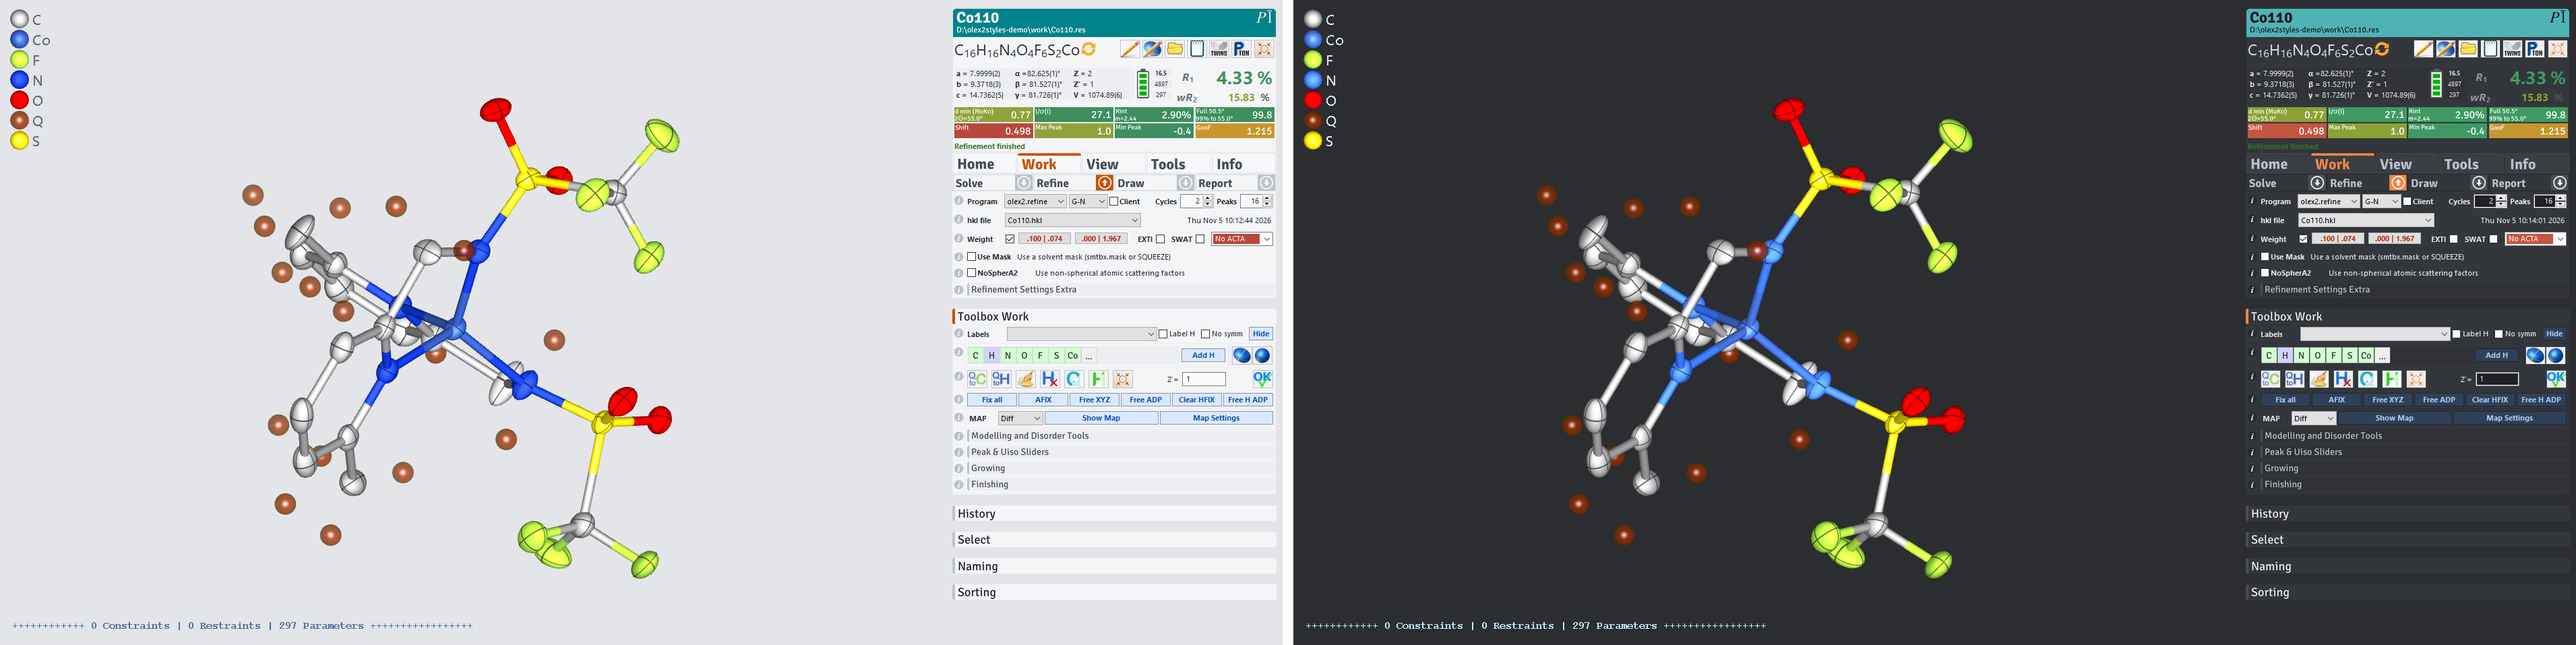
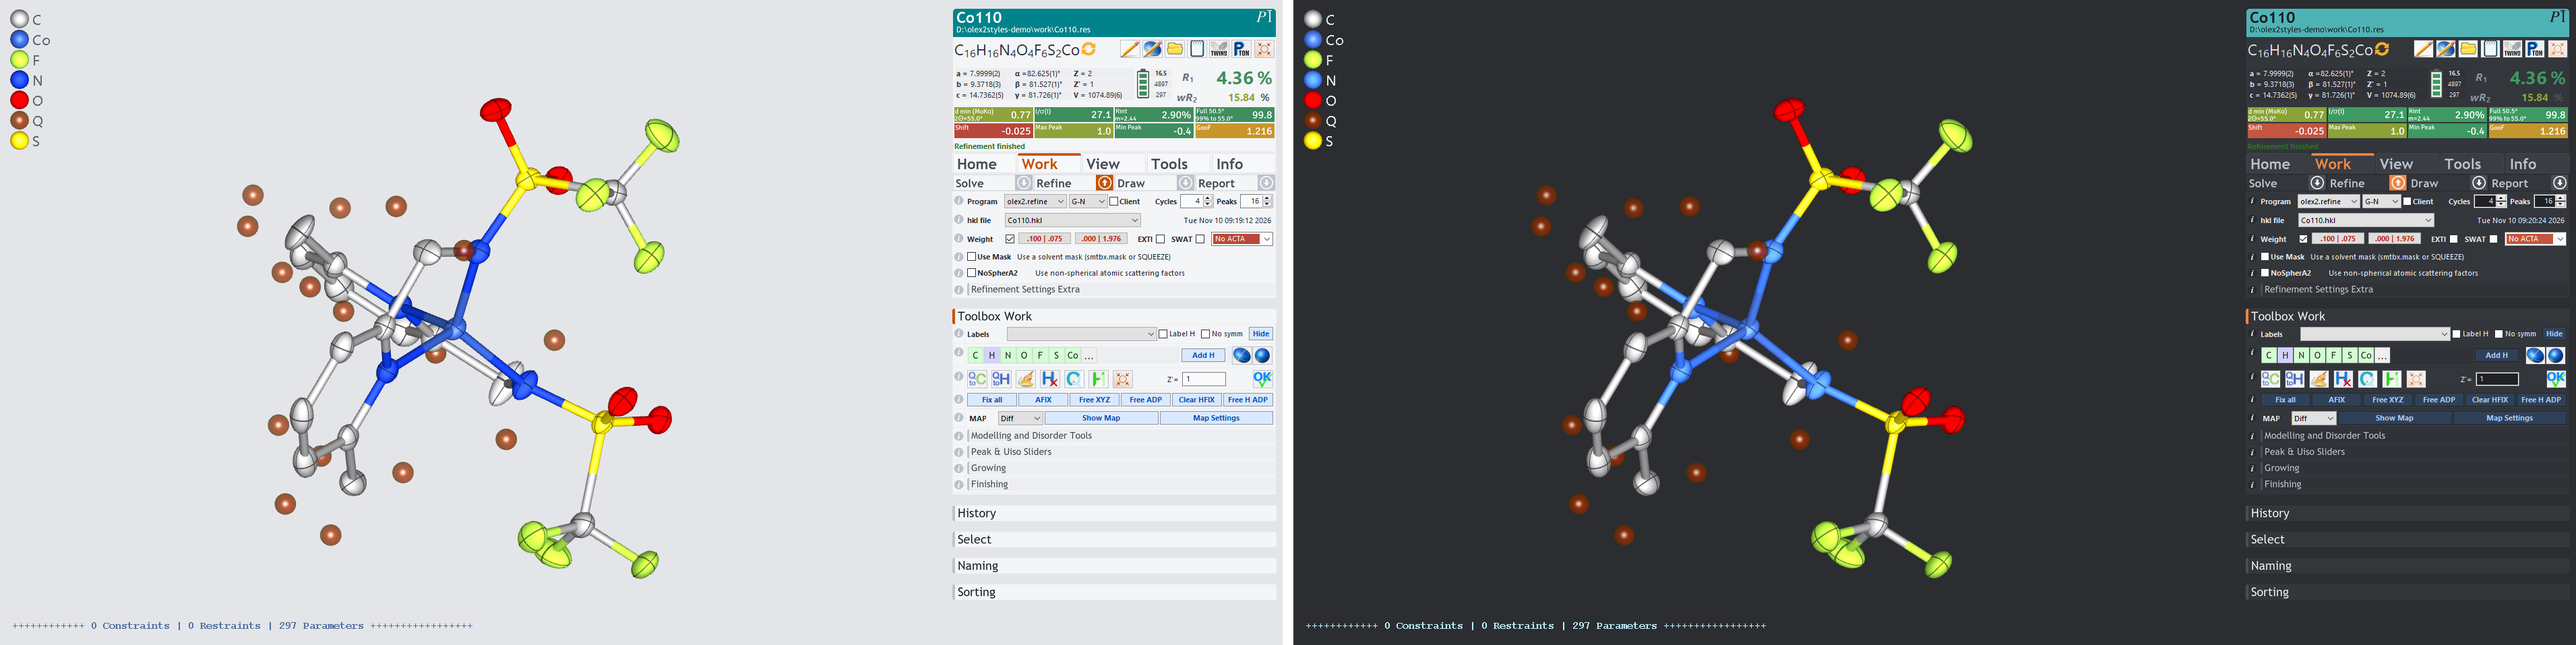
Re-render the README images with Trebuchet and Segoe UI
The banner, the four default skins and the catalogue of all 20 skins are now real Olex2 renders of the win skins (the catalogue used to be a mock-up). They load Co110 from a neutral demo folder, so no account name shows.

diff --git a/AGENTS.md b/AGENTS.md
@@ -95,8 +95,7 @@ These come from Olex2 or Windows; a skin can't fix them.
 
 - **Olex2-derived files:** `light_g.glds`/`.glsp` are Olex2's files, and the generated `.glds`/`.glsp` styles are derived from them. Olex2's terms are in `licence.rtf` in the Olex2 installation. The README and LICENSE should say that MIT covers the script and skins, and mention where the Olex2-derived files come from.
 - **Flexoki:** by Steph Ango, MIT-licensed (github.com/kepano/flexoki); please confirm. Credit it in the README.
-- **Preview image:** `docs/panels_default_skins.png` shows a local Windows path containing the user's account name in the title blocks. Ask before publishing it, or crop it.
-- **Mock-up image:** `docs/skin_catalogue.png` is drawn from the palettes and is not an Olex2 screenshot; the other images are real renders.
+- **Preview images:** the banner, `docs/panels_default_skins.png` and `docs/skin_catalogue.png` are real Olex2 renders of the `win` skins. They load the structure from a neutral folder (`D:\olex2styles-demo`), so no account name shows in the title block; keep it that way when re-rendering.
 
 ## How the 3D styles are built
 

diff --git a/README.md b/README.md
@@ -88,7 +88,7 @@ _Note: When swapping skins, Olex can hide the results grid and some of the plugi
 
 The plain family name uses an orange accent, the closest to the original Olex2 look. The other names swap the accent colour:
 
-![All 20 skins (mock-up)](docs/skin_catalogue.png)
+![All 20 skins in Olex2](docs/skin_catalogue.png)
 
 ## Regenerate
 
